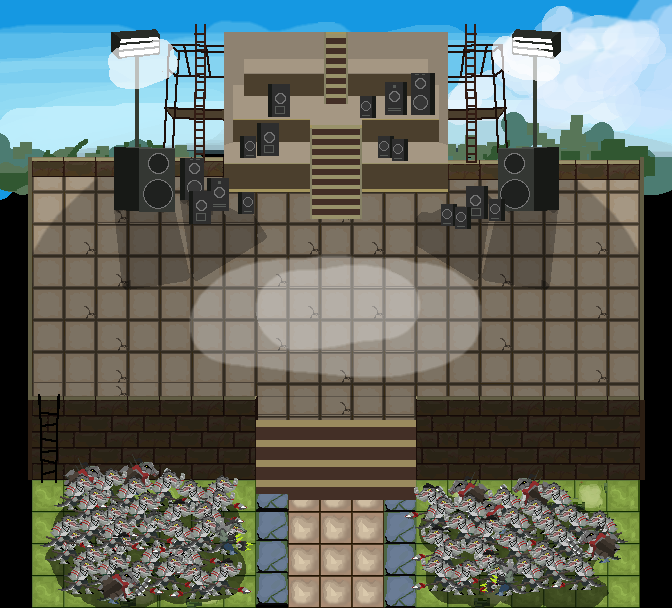
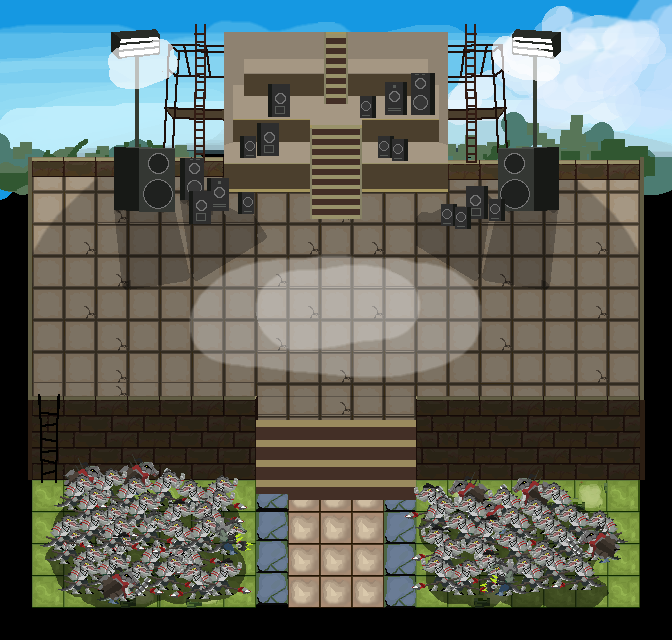
修复嘉维尔40层战斗地图边界溢出
通过扩大地图的方式修复在嘉维尔40层战斗地图边界溢出的问题（由灰喉的种草被动触发）

diff --git a/core/src/main/java/com/shatteredpixel/shatteredpixeldungeon/levels/GavialBossLevel2.java b/core/src/main/java/com/shatteredpixel/shatteredpixeldungeon/levels/GavialBossLevel2.java
@@ -46,7 +46,7 @@ public class GavialBossLevel2 extends Level {
     @Override
     protected boolean build() {
 
-        setSize(21, 19);
+        setSize(21, 20);
         Arrays.fill( map, Terrain.EMPTY );
 
         feeling = Feeling.NONE;
@@ -86,6 +86,7 @@ public class GavialBossLevel2 extends Level {
             W, S, S, S, S, S, S, S, e, e, E, e, e, S, S, S, S, S, S, S, W,
             W, S, S, S, S, S, S, S, e, e, E, e, e, S, S, S, S, S, S, S, W,
             W, S, S, S, S, S, S, S, e, e, E, e, e, S, S, S, S, S, S, S, W,
+            W, W, W, W, W, W, W, W, W, W, W, W, W, W, W, W, W, W, W, W, W,
     };
 
     public static class CustomeMap extends CustomTilemap {

diff --git a/core/src/main/java/com/shatteredpixel/shatteredpixeldungeon/TomorrowRogueNight.java b/core/src/main/java/com/shatteredpixel/shatteredpixeldungeon/TomorrowRogueNight.java
@@ -41,7 +41,7 @@ public class TomorrowRogueNight extends Game {
     public static final int v0_5_2 = 676;
     public static final int v0_5_2a = 677;
     public static final int v0_5_3 = 713;
-	public static final int v0_5_4 = 720;
+	public static final int v0_5_4 = 721;
 	
 	public TomorrowRogueNight(PlatformSupport platform ) {
 		super( sceneClass == null ? WelcomeScene.class : sceneClass, platform );
